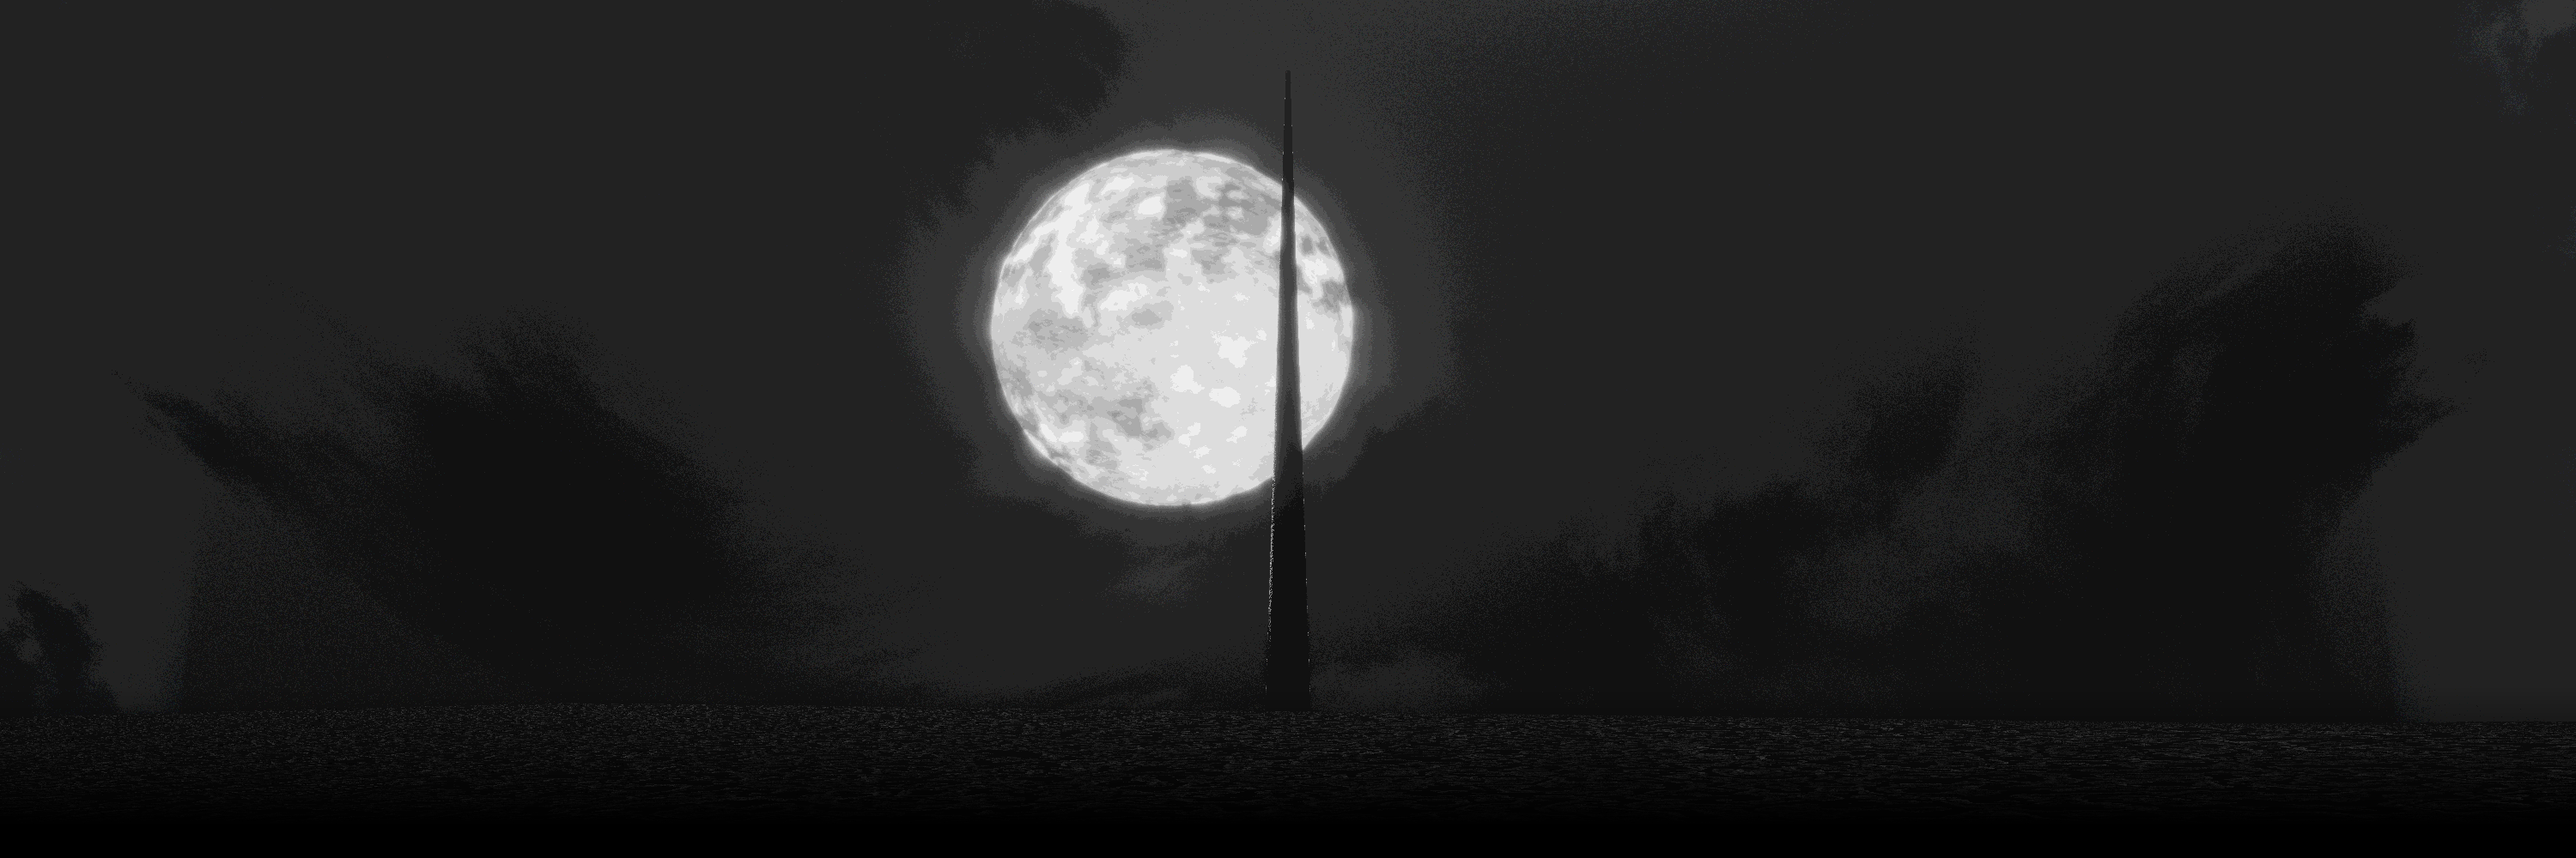
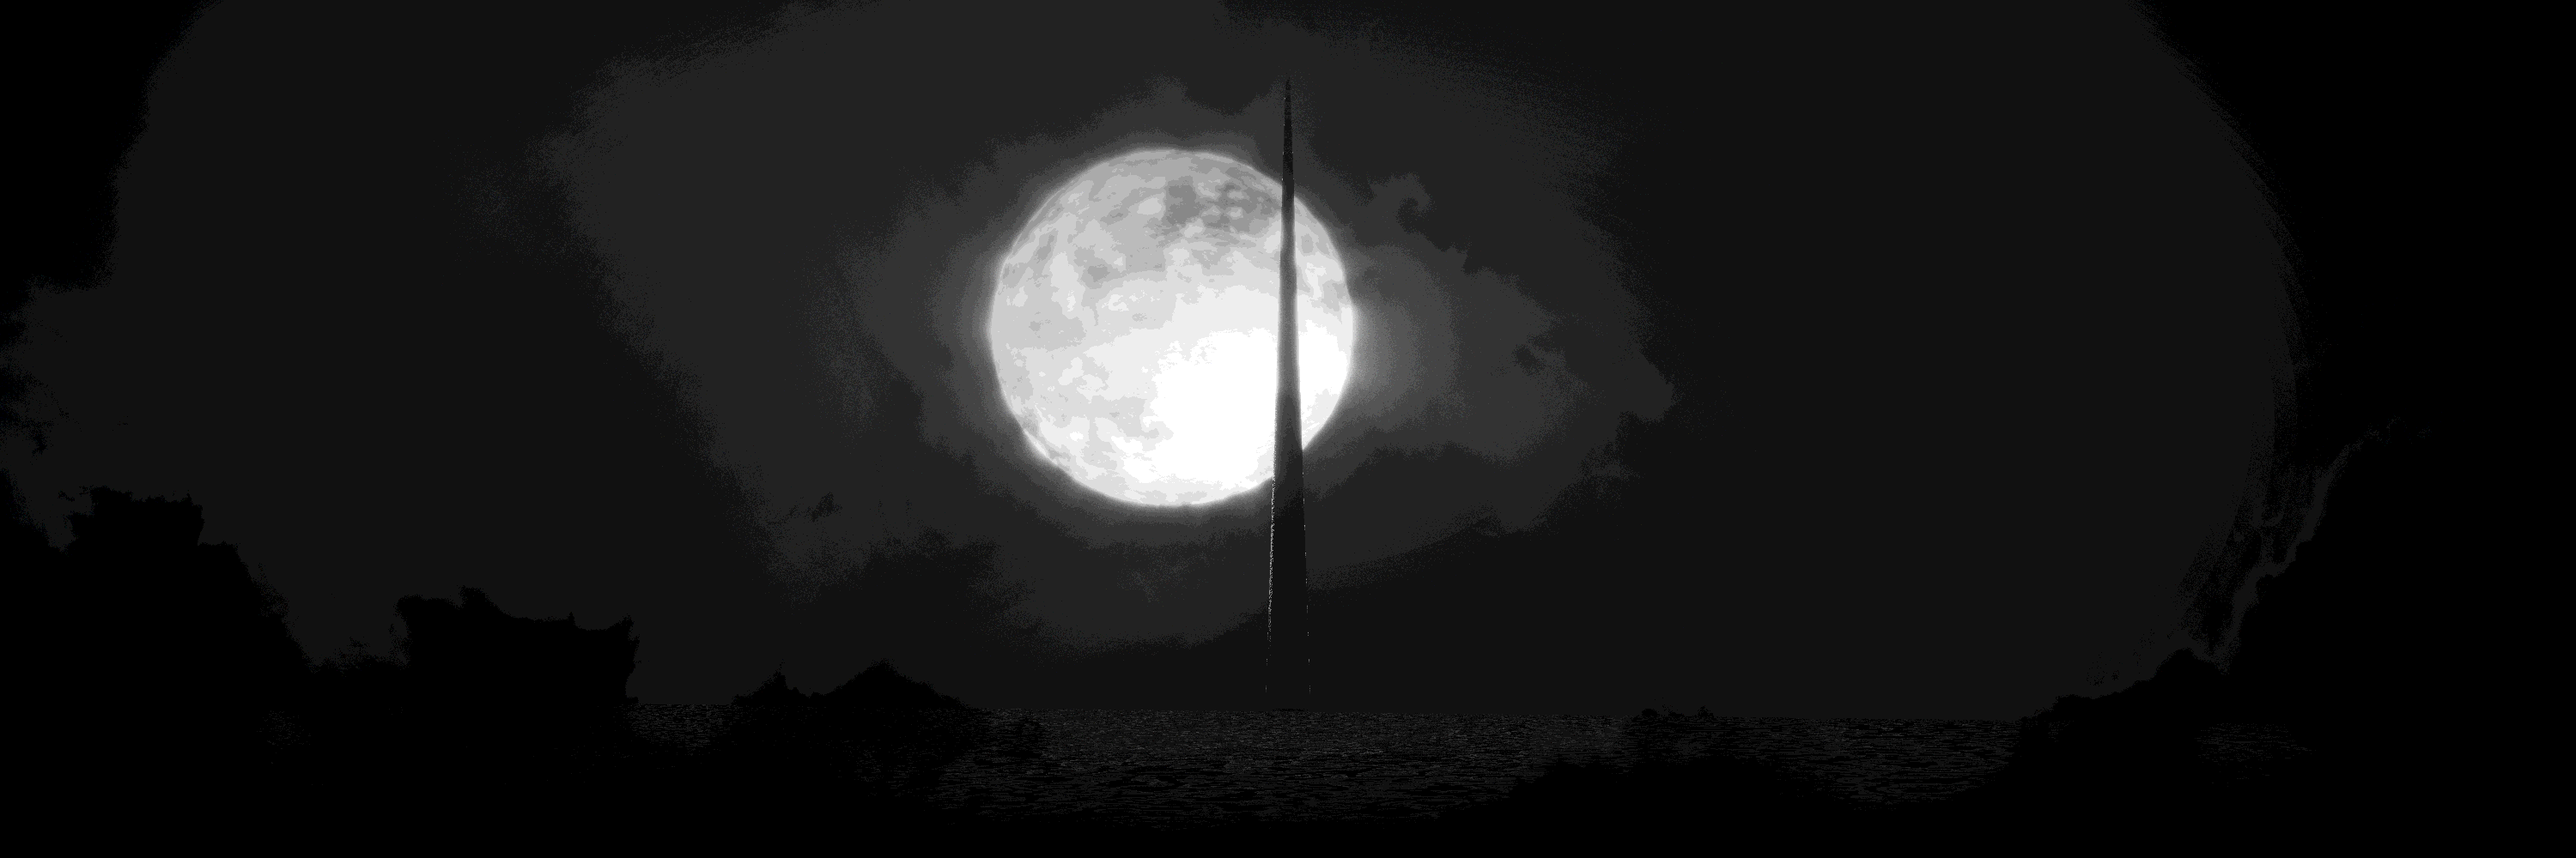
Updated bg image (again)

diff --git a/index.html b/index.html
@@ -23,7 +23,7 @@
 </script>
 <body>
   <div class="backround_Main">
-    <img src="./assets/tower_night_render_32b.png" >
+    <img src="./assets/tower_night_render_16b.png" >
   </div>
     <div class="overlap_Main">
       <div class="header_Primary">
@@ -61,13 +61,13 @@
           \tAn otherworldly tower has appeared in the middle of the Atlantic ocean.
         </p>
         <p is="f-p">
-          \tDeep within its halls rests the "Game Master", who has issued a challenge to mankind:
+          Deep within its halls rests the "Game Master", who has issued a challenge to mankind:
         </p>
         <p is="f-p">
-          \t"Ascend the tower and defeat me by week's end.."
+          \t"Ascend the tower and defeat me by week's end..."
         </p>
         <p is="f-p">
-          \t"...Be you a fearsome warrior, a genius tactician, or the wielder of unique gifts; know that suffering awaits all who venture forth unprepared."
+          "...Be you a fearsome warrior, a genius tactician, or blessed with a link to the beyond; know that suffering awaits all who venture forth."
         </p>
       </div>
       <main>
